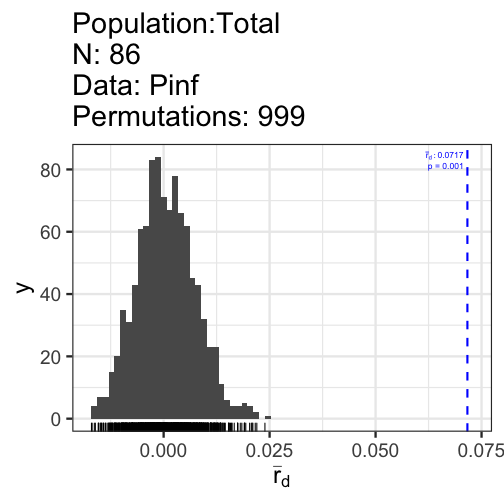
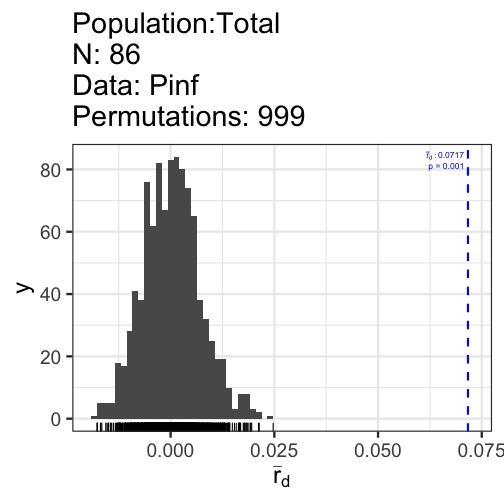
site deploy
Auto-generated via {sandpaper}
Source  : 04b29e36638600ba4282afff5d677f67ad6a0e4b
Branch  : md-outputs
Author  : GitHub Actions <actions@github.com>
Time    : 2021-08-27 15:34:57 +0000
Message : markdown source builds

Auto-generated via {sandpaper}
Source  : 082ae43c083ceaec7c68d4ccfd1d971b5702bf50
Branch  : main
Author  : Zhian N. Kamvar <zkamvar@gmail.com>
Time    : 2021-08-27 15:25:46 +0000
Message : fix values

diff --git a/02-poppr-example.html b/02-poppr-example.html
@@ -8,7 +8,7 @@
 <meta http-equiv="X-UA-Compatible" content="IE=edge">
 <meta name="viewport" content="width=device-width, initial-scale=1.0">
 
-<meta http-equiv="last-modified" content="2021-08-27 15:29:08 +0000">
+<meta http-equiv="last-modified" content="2021-08-27 15:34:57 +0000">
 
 
 
@@ -275,11 +275,13 @@ Population information:
 <span id="cb9-5"><a href="#cb9-5" aria-hidden="true" tabindex="-1"></a><span class="fu">library</span>(<span class="st">&quot;ggplot2&quot;</span>)</span>
 <span id="cb9-6"><a href="#cb9-6" aria-hidden="true" tabindex="-1"></a><span class="fu">ggplot</span>(Pinf.resamp[<span class="dv">2</span>], <span class="fu">aes</span>(<span class="at">x =</span> rbarD)) <span class="sc">+</span></span>
 <span id="cb9-7"><a href="#cb9-7" aria-hidden="true" tabindex="-1"></a>  <span class="fu">geom_histogram</span>(<span class="at">bins =</span> <span class="dv">30</span>) <span class="sc">+</span></span>
-<span id="cb9-8"><a href="#cb9-8" aria-hidden="true" tabindex="-1"></a>  <span class="fu">geom_vline</span>(<span class="at">xintercept =</span> Pinf_ia[<span class="dv">2</span>]) <span class="sc">+</span></span>
-<span id="cb9-9"><a href="#cb9-9" aria-hidden="true" tabindex="-1"></a>  <span class="fu">annotate</span>(<span class="st">&quot;label&quot;</span>, <span class="at">x =</span> Pinf_ia[<span class="dv">2</span>], <span class="at">y =</span> <span class="dv">60</span>, <span class="at">label =</span> <span class="st">&quot;Observed Index&quot;</span>, <span class="at">hjust =</span> <span class="dv">0</span>) <span class="sc">+</span></span>
-<span id="cb9-10"><a href="#cb9-10" aria-hidden="true" tabindex="-1"></a>  <span class="fu">geom_vline</span>(<span class="at">xintercept =</span> Pinf_cc[<span class="dv">2</span>], <span class="at">linetype =</span> <span class="dv">2</span>) <span class="sc">+</span></span>
-<span id="cb9-11"><a href="#cb9-11" aria-hidden="true" tabindex="-1"></a>  <span class="fu">annotate</span>(<span class="st">&quot;label&quot;</span>, <span class="at">x =</span> Pinf_cc[<span class="dv">2</span>], <span class="at">y =</span> <span class="dv">50</span>, <span class="at">label =</span> <span class="st">&quot;Observed Index (clone-corrected)&quot;</span>, <span class="at">hjust =</span> <span class="dv">0</span>) <span class="sc">+</span></span>
-<span id="cb9-12"><a href="#cb9-12" aria-hidden="true" tabindex="-1"></a>  <span class="fu">xlab</span>(<span class="fu">expression</span>(<span class="fu">bar</span>(r)[d]))</span></code></pre></div>
+<span id="cb9-8"><a href="#cb9-8" aria-hidden="true" tabindex="-1"></a>  <span class="fu">geom_vline</span>(<span class="at">xintercept =</span> Pinf_ia[<span class="dv">3</span>]) <span class="sc">+</span></span>
+<span id="cb9-9"><a href="#cb9-9" aria-hidden="true" tabindex="-1"></a>  <span class="fu">annotate</span>(<span class="st">&quot;label&quot;</span>, <span class="at">x =</span> Pinf_ia[<span class="dv">3</span>], <span class="at">y =</span> <span class="dv">60</span>, <span class="at">label =</span> <span class="st">&quot;Observed Index&quot;</span>, <span class="at">hjust =</span> <span class="dv">0</span>) <span class="sc">+</span></span>
+<span id="cb9-10"><a href="#cb9-10" aria-hidden="true" tabindex="-1"></a>  <span class="fu">geom_vline</span>(<span class="at">xintercept =</span> Pinf_cc[<span class="dv">3</span>], <span class="at">linetype =</span> <span class="dv">2</span>) <span class="sc">+</span></span>
+<span id="cb9-11"><a href="#cb9-11" aria-hidden="true" tabindex="-1"></a>  <span class="fu">annotate</span>(<span class="st">&quot;label&quot;</span>, <span class="at">x =</span> Pinf_cc[<span class="dv">3</span>], <span class="at">y =</span> <span class="dv">50</span>, <span class="at">label =</span> <span class="st">&quot;Observed Index (clone-corrected)&quot;</span>, <span class="at">hjust =</span> <span class="dv">0</span>) <span class="sc">+</span></span>
+<span id="cb9-12"><a href="#cb9-12" aria-hidden="true" tabindex="-1"></a>  <span class="fu">xlab</span>(<span class="fu">expression</span>(<span class="fu">bar</span>(r)[d])) <span class="sc">+</span></span>
+<span id="cb9-13"><a href="#cb9-13" aria-hidden="true" tabindex="-1"></a>  <span class="fu">xlim</span>(<span class="fu">c</span>(<span class="dv">0</span>, <span class="cn">NA</span>))</span></code></pre></div>
+<pre class="warning"><code>Warning: Removed 1 rows containing missing values (geom_bar).</code></pre>
 <div class="figure" style="text-align: center">
 <img src="fig/02-poppr-example-rendered-resample-1.png" alt="histogram of the index of association; a solid vertical line represents the observed value of the index of association; a dotted vertical line to the right represents the observed value of the clone corrected data."  />
 <p class="caption">

diff --git a/01-introduction.html b/01-introduction.html
@@ -8,7 +8,7 @@
 <meta http-equiv="X-UA-Compatible" content="IE=edge">
 <meta name="viewport" content="width=device-width, initial-scale=1.0">
 
-<meta http-equiv="last-modified" content="2021-08-27 15:29:08 +0000">
+<meta http-equiv="last-modified" content="2021-08-27 15:34:57 +0000">
 
 
 

diff --git a/404.html b/404.html
@@ -8,7 +8,7 @@
 <meta http-equiv="X-UA-Compatible" content="IE=edge">
 <meta name="viewport" content="width=device-width, initial-scale=1.0">
 
-<meta http-equiv="last-modified" content="2021-08-27 15:29:08 +0000">
+<meta http-equiv="last-modified" content="2021-08-27 15:34:57 +0000">
 
 
 

diff --git a/CODE_OF_CONDUCT.html b/CODE_OF_CONDUCT.html
@@ -8,7 +8,7 @@
 <meta http-equiv="X-UA-Compatible" content="IE=edge">
 <meta name="viewport" content="width=device-width, initial-scale=1.0">
 
-<meta http-equiv="last-modified" content="2021-08-27 15:29:08 +0000">
+<meta http-equiv="last-modified" content="2021-08-27 15:34:57 +0000">
 
 
 

diff --git a/LICENSE.html b/LICENSE.html
@@ -8,7 +8,7 @@
 <meta http-equiv="X-UA-Compatible" content="IE=edge">
 <meta name="viewport" content="width=device-width, initial-scale=1.0">
 
-<meta http-equiv="last-modified" content="2021-08-27 15:29:08 +0000">
+<meta http-equiv="last-modified" content="2021-08-27 15:34:57 +0000">
 
 
 

diff --git a/Setup.html b/Setup.html
@@ -8,7 +8,7 @@
 <meta http-equiv="X-UA-Compatible" content="IE=edge">
 <meta name="viewport" content="width=device-width, initial-scale=1.0">
 
-<meta http-equiv="last-modified" content="2021-08-27 15:29:08 +0000">
+<meta http-equiv="last-modified" content="2021-08-27 15:34:57 +0000">
 
 
 

diff --git a/index.html b/index.html
@@ -8,7 +8,7 @@
 <meta http-equiv="X-UA-Compatible" content="IE=edge">
 <meta name="viewport" content="width=device-width, initial-scale=1.0">
 
-<meta http-equiv="last-modified" content="2021-08-27 15:29:08 +0000">
+<meta http-equiv="last-modified" content="2021-08-27 15:34:57 +0000">
 
 
 

diff --git a/instructor-notes.html b/instructor-notes.html
@@ -8,7 +8,7 @@
 <meta http-equiv="X-UA-Compatible" content="IE=edge">
 <meta name="viewport" content="width=device-width, initial-scale=1.0">
 
-<meta http-equiv="last-modified" content="2021-08-27 15:29:08 +0000">
+<meta http-equiv="last-modified" content="2021-08-27 15:34:57 +0000">
 
 
 

diff --git a/learner-profiles.html b/learner-profiles.html
@@ -8,7 +8,7 @@
 <meta http-equiv="X-UA-Compatible" content="IE=edge">
 <meta name="viewport" content="width=device-width, initial-scale=1.0">
 
-<meta http-equiv="last-modified" content="2021-08-27 15:29:08 +0000">
+<meta http-equiv="last-modified" content="2021-08-27 15:34:57 +0000">
 
 
 
